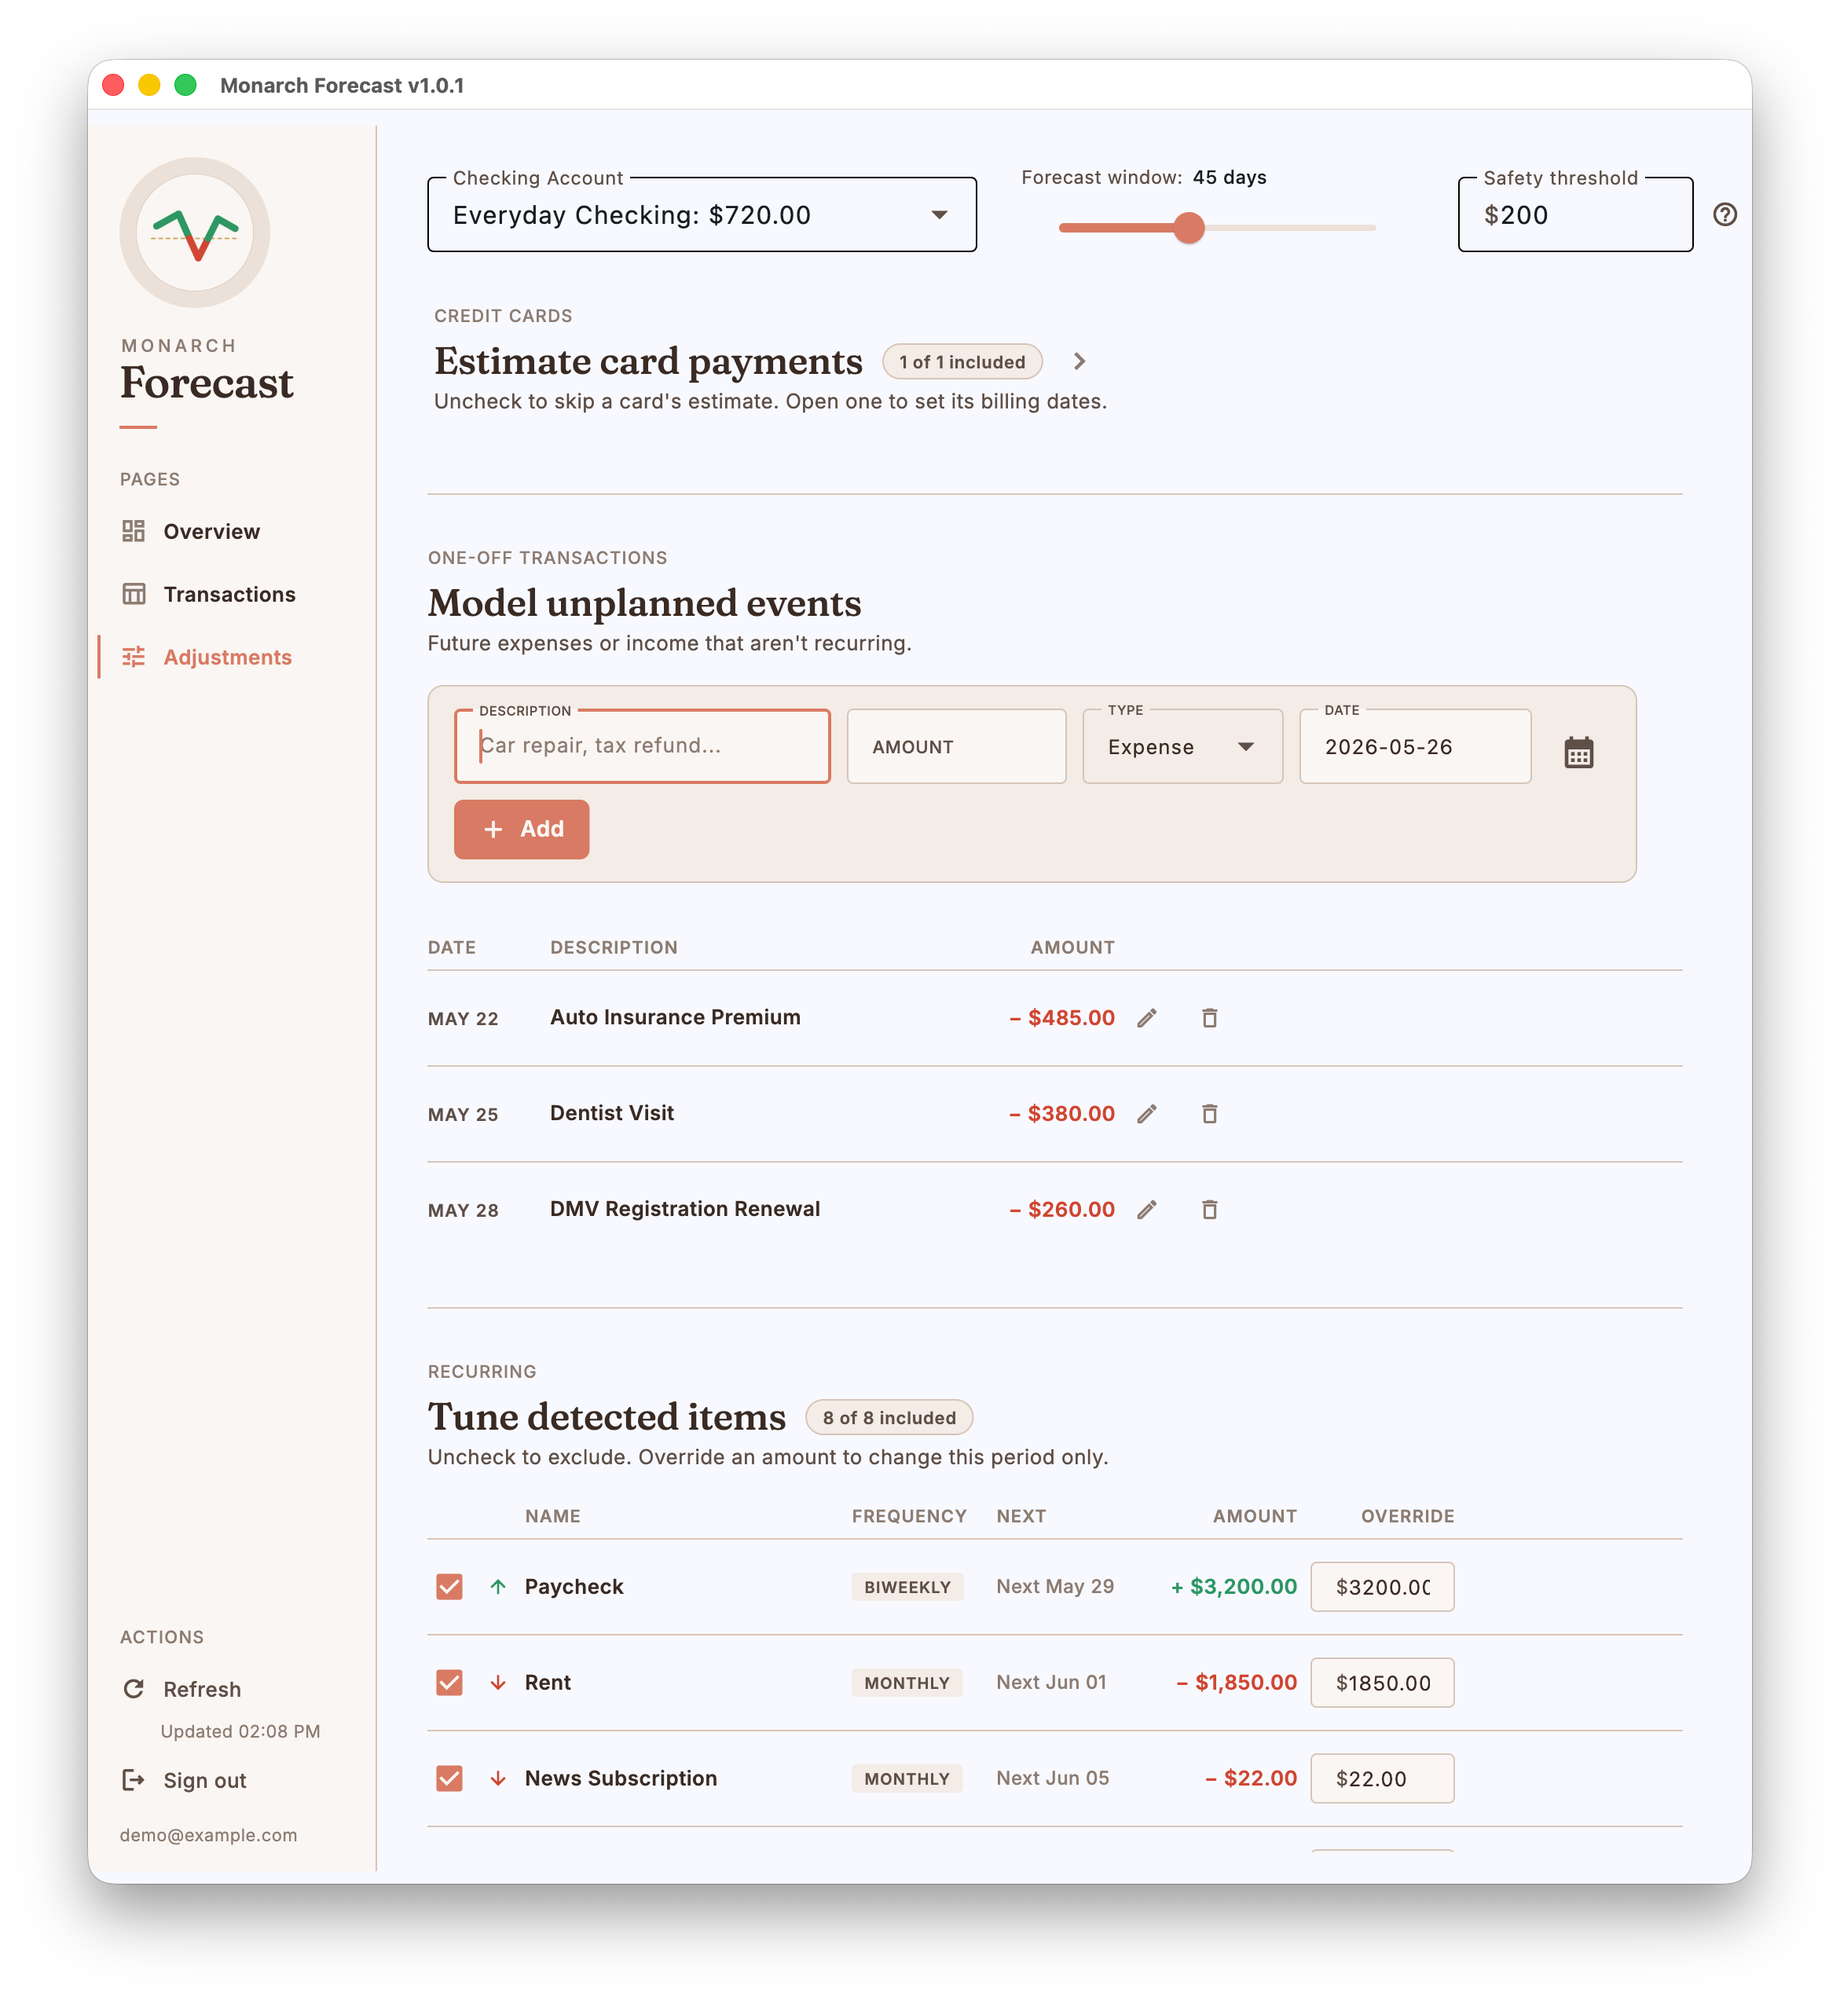
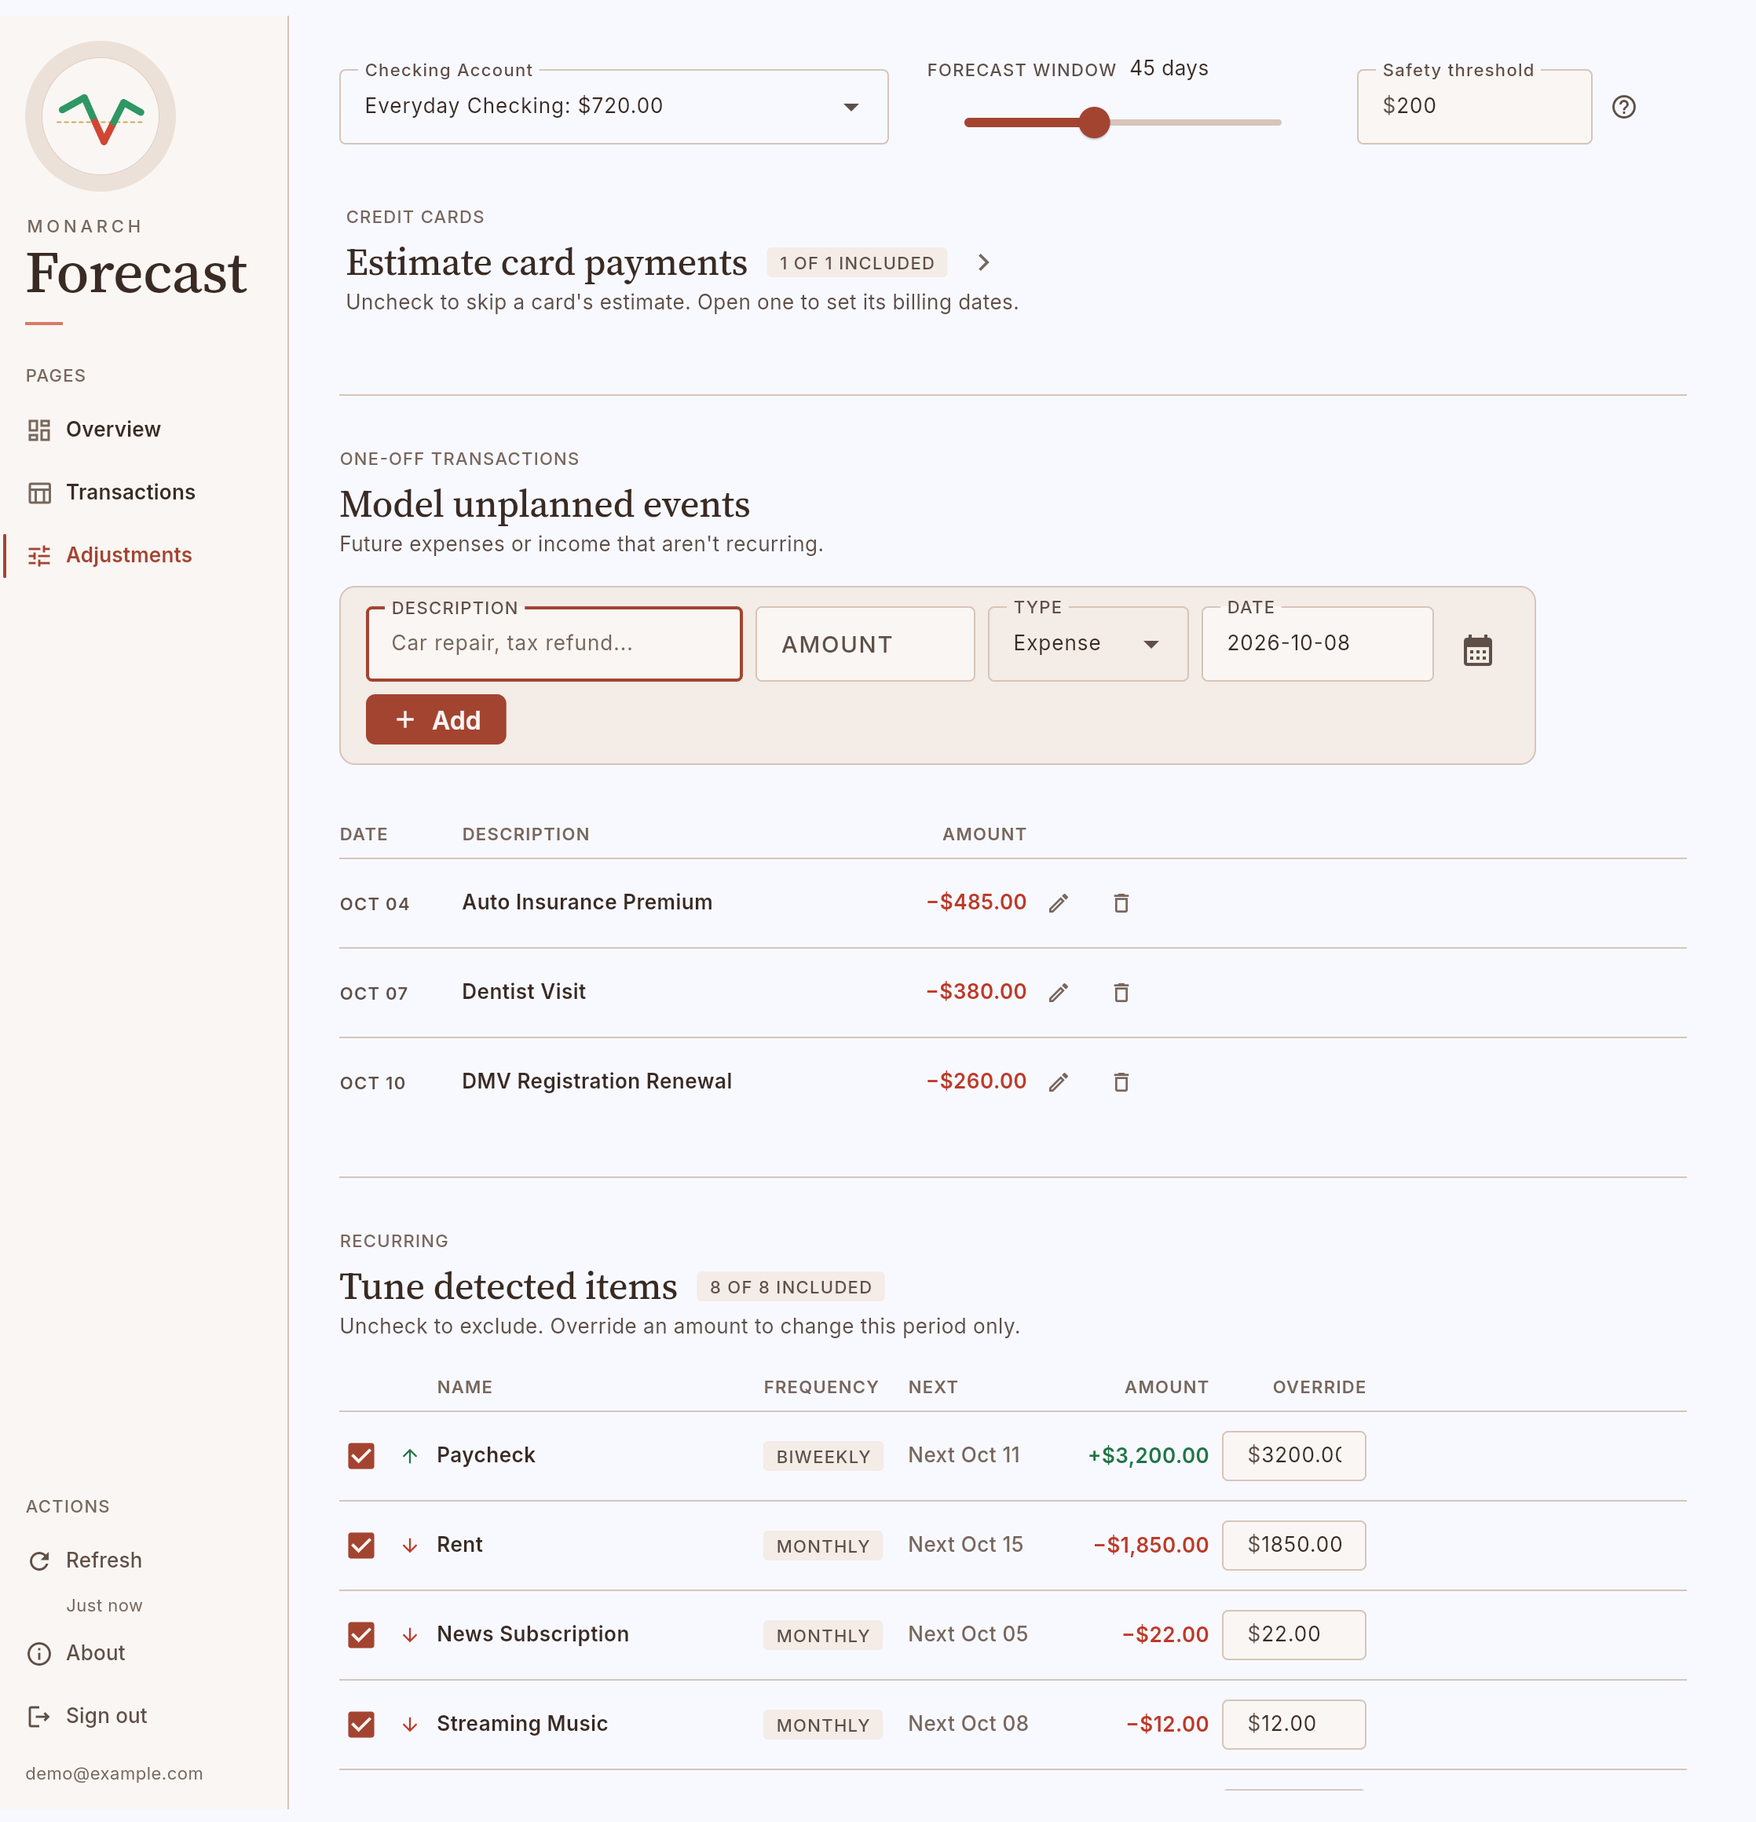
fix(demo): keep the demo's dip-and-recover shape on every date
Rent was fixed to the 1st of the month. On the 1st it landed before the
next paycheck, so the demo opened below zero (-$1,130) and bottomed out
at -$2,434.80. Rent now lands 11-14 days out, just after the paycheck,
and a test runs the full forecast for every day of a year.

Also refresh the README screenshots, which still showed v1.0.1.

diff --git a/src/data/demo_data.py b/src/data/demo_data.py
@@ -81,9 +81,9 @@ _ONE_OFF_OFFSETS: list[tuple[int, float, str, str]] = [
 ]
 
 # Monthly expenses keyed on day-of-month for the recurring detector to pick up
-# as "monthly" over 3 months of history.
+# as "monthly" over 3 months of history. Rent is added in `build_transactions`
+# at `_rent_day(today)`.
 _MONTHLY_ITEMS: list[tuple[int, float, str, str]] = [
-    (1, _RENT, "Rent", "Housing"),
     (5, -22.00, "News Subscription", "Subscriptions"),
     (8, -12.00, "Streaming Music", "Subscriptions"),
     (12, -94.00, "Electric Bill", "Utilities"),
@@ -131,9 +131,22 @@ def build_credit_card_accounts() -> list[dict[str, Any]]:
     ]
 
 
-def build_transactions() -> list[dict[str, Any]]:
+def _rent_day(today: date) -> int:
+    """Day of month for rent, so the next one lands 11-14 days out.
+
+    A fixed day drifts against the paycheck cycle: on the 1st, a fixed
+    day-1 rent hit before the paycheck and sank the whole demo below zero
+    from day one. Two weeks out keeps it just after the next paycheck
+    (10 days out); capping at 28 so every month has the day pulls it at
+    most three days earlier.
+    """
+    return min((today + timedelta(days=14)).day, 28)
+
+
+def build_transactions(today: date | None = None) -> list[dict[str, Any]]:
     """90 days of synthetic history, shaped for the recurring detector."""
-    today = date.today()
+    if today is None:
+        today = date.today()
     txns: list[dict[str, Any]] = []
 
     # Paychecks — biweekly. Offset so the most recent landed 4 days ago and
@@ -145,7 +158,8 @@ def build_transactions() -> list[dict[str, Any]]:
         )
 
     # Monthly expenses across up to 4 months back (some will fall outside 90d).
-    for day_of_month, amount, name, category in _MONTHLY_ITEMS:
+    monthly = [(_rent_day(today), _RENT, "Rent", "Housing"), *_MONTHLY_ITEMS]
+    for day_of_month, amount, name, category in monthly:
         for offset in range(4):
             y, m = today.year, today.month - offset
             while m <= 0:

diff --git a/tests/test_demo.py b/tests/test_demo.py
@@ -137,3 +137,42 @@ def test_dashboard_accepts_demo_overrides(tmp_path) -> None:
     )
     assert isinstance(dashboard, ft.Column)
     assert dashboard._raw_client.__class__.__name__ == "DemoClient"
+
+
+def test_demo_forecast_shape_holds_on_every_day_of_the_year(monkeypatch) -> None:
+    """The demo starts above zero, dips below it, and recovers, whatever the date.
+
+    It used to depend on the calendar: rent was fixed to the 1st, so on the
+    1st it landed before the paycheck and the demo opened at -$1,130.
+    """
+    from src.data import recurring_detector
+    from src.forecast import credit_cards, engine
+
+    class FakeDate(date):
+        current = date(2028, 1, 1)
+
+        @classmethod
+        def today(cls):
+            return cls.current
+
+    for module in (recurring_detector, credit_cards, engine, demo_data):
+        monkeypatch.setattr(module, "date", FakeDate)
+
+    for offset in range(366):  # 2028 is a leap year
+        today = date(2028, 1, 1) + timedelta(days=offset)
+        FakeDate.current = today
+        txns = demo_data.build_transactions(today)
+        recurring = [r for r in detect_recurring(txns) if r.account_id == demo_data.CHECKING_ID]
+        cc_payments = estimate_cc_payments(
+            demo_data.build_credit_card_accounts(), recurring, forecast_days=45, transactions=txns
+        )
+        result = build_forecast(
+            starting_balance=demo_data.CHECKING_STARTING_BALANCE,
+            recurring_items=recurring,
+            one_off_transactions=demo_data.build_one_off_transactions(today) + cc_payments,
+            days_out=45,
+        )
+        balances = [d.ending_balance for d in result.days]
+        assert balances[0] > 0, f"{today}: demo opens below zero ({balances[0]:.2f})"
+        assert min(balances) < 0, f"{today}: demo never dips below zero"
+        assert balances[-1] > 0, f"{today}: demo does not recover by day 45"

diff --git a/CHANGELOG.md b/CHANGELOG.md
@@ -7,6 +7,17 @@ and this project aims to follow [Semantic Versioning](https://semver.org/spec/v2
 
 ## [Unreleased]
 
+### Fixed
+
+- Demo mode shows the same dip-and-recover forecast on any date. Rent was
+  fixed to the 1st, so on the 1st it landed before the paycheck and the demo
+  opened at −$1,130 and bottomed out at −$2,434.80.
+
+### Changed
+
+- README screenshots show the current design (Source Serif 4, the
+  paper-and-ink chart, true minus signs) instead of v1.0.1.
+
 ## [1.6.0] (2026-09-30)
 
 ### Changed

diff --git a/README.md b/README.md
@@ -29,7 +29,7 @@ The dashboard's headline view: low-balance and overdraft alerts up top, the
 projected low for the window, starting/net/ending balances, and the
 day-by-day balance projection chart.
 
-![Overview tab showing a projected -$568.80 low and the balance chart dipping below zero before recovering](screenshots/overview.png)
+![Overview tab showing a projected −$584.80 low and the balance chart dipping below zero before recovering](screenshots/overview.png)
 
 ### Transactions
 
